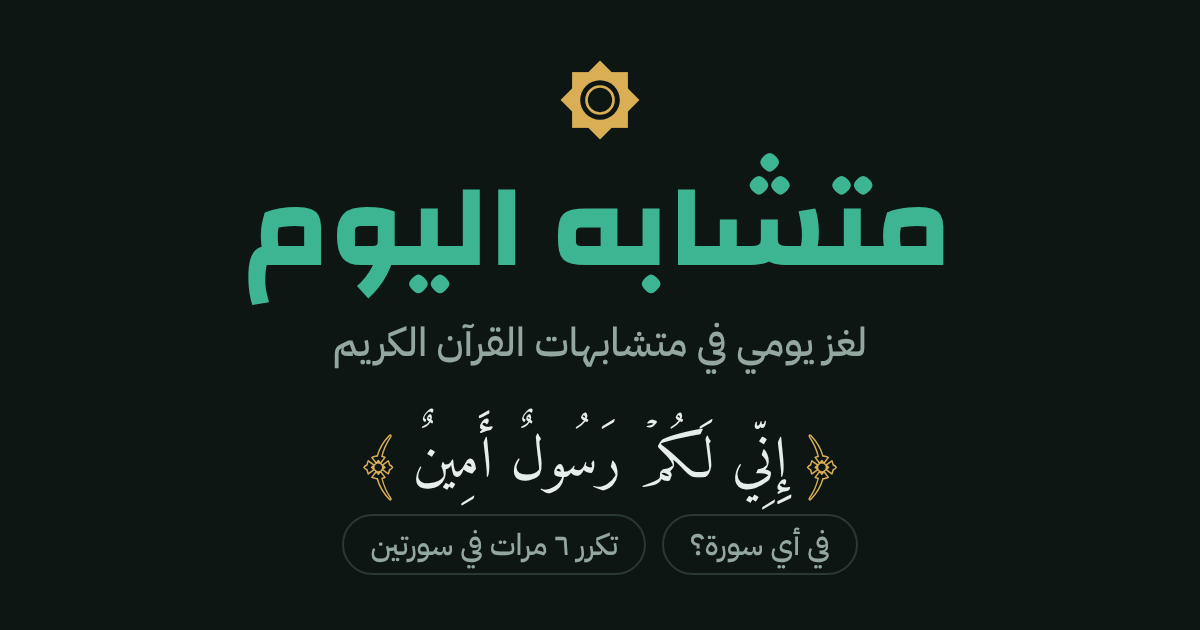
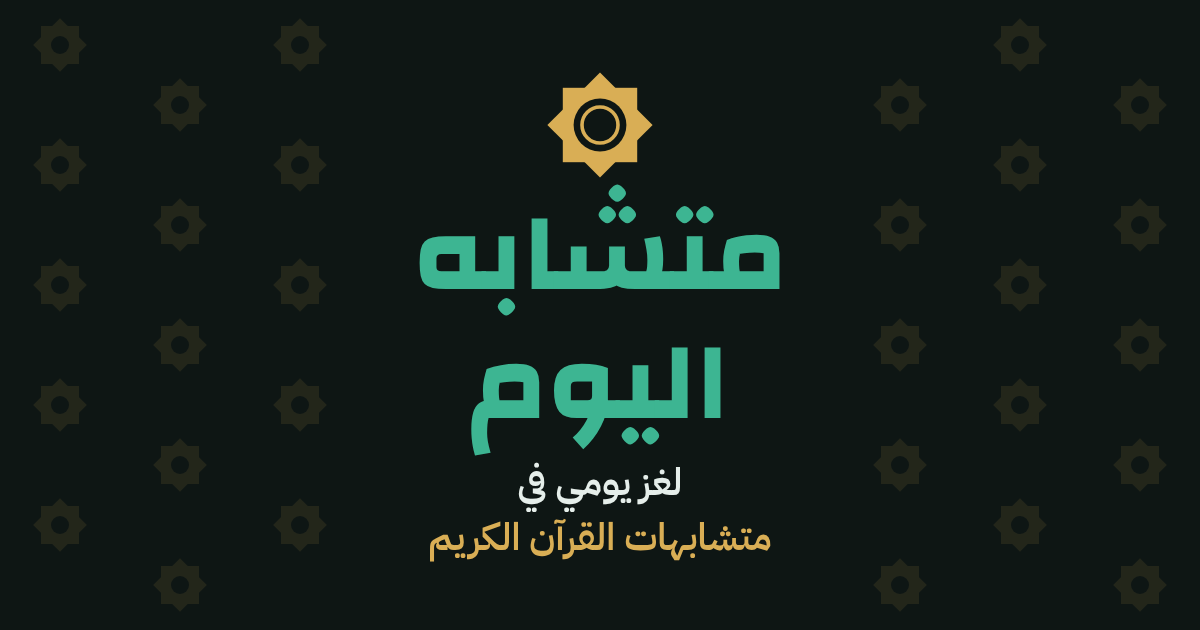
Add files via upload

Changed region(s): [[0.185, 0.0905, 0.8017, 0.9349], [0.6167, 0.2413, 0.74, 0.3016]]

diff --git a/index.html b/index.html
@@ -8,12 +8,12 @@
 <meta property="og:url" content="https://quranic-verses.github.io/mutashabihat/">
 <meta property="og:title" content="متشابه اليوم">
 <meta property="og:description" content="لغز يومي في متشابهات القرآن الكريم: في أي سورة ورد هذا الموضع؟">
-<meta property="og:image" content="https://quranic-verses.github.io/mutashabihat/og-image.png">
+<meta property="og:image" content="https://quranic-verses.github.io/mutashabihat/og-image.png?v=2">
 <meta property="og:image:width" content="1200">
 <meta property="og:image:height" content="630">
 <meta property="og:locale" content="ar_AR">
 <meta name="twitter:card" content="summary_large_image">
-<meta name="twitter:image" content="https://quranic-verses.github.io/mutashabihat/og-image.png">
+<meta name="twitter:image" content="https://quranic-verses.github.io/mutashabihat/og-image.png?v=2">
 <link rel="manifest" href="manifest.webmanifest">
 <link rel="apple-touch-icon" href="apple-touch-icon.png">
 <meta name="apple-mobile-web-app-capable" content="yes">
@@ -62,6 +62,8 @@ h1{font-family:var(--f-display);font-weight:700;font-size:2.1rem;line-height:1.4
 .chip{border:1px solid var(--line);border-radius:999px;padding:3px 12px;font-size:.92rem;color:var(--muted)}
 .chip b{color:var(--ink);font-variant-numeric:tabular-nums}
 .slots{display:grid;grid-template-columns:repeat(auto-fill,minmax(130px,1fr));gap:8px}
+.slots .ayah{grid-column:1/-1}
+.ayah.found{border-color:var(--ok)}
 .slot{min-height:52px;border-radius:10px;background:var(--empty);border:1px dashed var(--line);display:flex;align-items:center;justify-content:center;gap:6px;font-weight:600;padding:6px}
 .slot.found{background:var(--ok-bg);border:1px solid var(--ok);color:var(--ok);animation:pop .35s ease}
 .slot.missed{background:transparent;border:1px solid var(--bad);color:var(--bad)}
@@ -124,6 +126,7 @@ a.mbtn{text-decoration:none}
 .arow .adate{color:var(--muted);font-weight:400;font-size:.85rem}
 .arow .ast{font-size:.82rem;font-weight:600;min-width:64px;text-align:left}
 .ast.ok{color:var(--ok)} .ast.bad{color:var(--bad)} .ast.new{color:var(--muted)} .ast.cur{color:var(--gold)}
+.btn-link{display:inline-flex;align-items:center;justify-content:center;font-weight:600;border-radius:10px;border:1px solid var(--accent);background:var(--accent);color:var(--accent-ink);padding:10px 16px;text-decoration:none}
 .row{display:flex;gap:8px;flex-wrap:wrap;justify-content:center}
 .stats{display:grid;grid-template-columns:repeat(4,1fr);gap:8px;text-align:center}
 .stats div{border:1px solid var(--line);border-radius:10px;padding:8px 4px;background:var(--surface)}
@@ -221,8 +224,6 @@ if ('serviceWorker' in navigator && location.protocol === 'https:' && location.h
     </div>
   </section>
 
-  <div class="slots" id="slots" aria-live="polite"></div>
-
   <form id="guessForm" autocomplete="off">
     <input type="text" id="guess" placeholder="اكتب اسم السورة" aria-label="اسم السورة">
     <button type="submit" id="go">تخمين</button>
@@ -235,21 +236,19 @@ if ('serviceWorker' in navigator && location.protocol === 'https:' && location.h
   </div>
   <div class="msg" id="msg" role="status"></div>
 
+  <div class="slots" id="slots" aria-live="polite"></div>
+
+  <ul class="log" id="log"></ul>
+
   <section class="reveal" id="reveal" hidden>
     <h2 id="resultTitle"></h2>
     <div class="row">
-      <button type="button" id="share">نسخ النتيجة</button>
+      <a class="btn-link" id="shareNative" href="#" target="_blank" rel="noopener">مشاركة</a>
+      <button type="button" class="ghost" id="share">نسخ النتيجة</button>
     </div>
     <p class="next" id="next"></p>
     <div class="stats" id="stats"></div>
   </section>
-
-  <section class="reveal" id="ayatBox" hidden>
-    <h2 id="ayatTitle">الآيات</h2>
-    <div id="ayat" class="reveal"></div>
-  </section>
-
-  <ul class="log" id="log"></ul>
 
   <footer class="credits">
     التلاوة: الشيخ محمود خليل الحصري، عبر <a href="https://alquran.cloud" target="_blank" rel="noopener">Islamic Network</a> ·
@@ -401,19 +400,29 @@ function load(idx, practice, archive){
 
 function wrongCount(){ return S.guesses.filter(g => !g.ok).length; }
 
+function verseCard([s, a, b, e], missed, isNew){
+  const words = (DATA.v[s + ':' + a] || '').split(/[\s\u2009]+/).filter(Boolean);
+  const html = words.map((w, i) => (i === b ? '<mark>' : '') + esc(w) + (i === e - 1 ? '</mark>' : '')).join(' ');
+  const cls = 'ayah' + (missed ? ' missed' : ' found') + (isNew ? ' new' : '');
+  const key = s + ':' + a, on = playing === key;
+  const btn = `<button type="button" class="play${on ? ' on' : ''}" data-key="${key}" aria-label="${on ? 'إيقاف التلاوة' : 'استمع للآية بصوت الحصري'}">${on ? '⏸' : '▶'}</button>`;
+  return `<div class="${cls}"><div class="head"><div class="ref">سورة ${SURAH[s]} · الآية ${toAr(a)}${missed ? ' <span class="tag">لم تجدها</span>' : ''}${where(s, a)}</div>${btn}</div><p>${html}</p></div>`;
+}
 function render(){
-  // slots: one tile per occurrence, grouped by surah in mushaf order
-  const slots = [];
-  S.surahs.forEach(s => {
-    const f = S.found.includes(s);
-    for (let i = 0; i < S.per[s]; i++) {
-      if (f) slots.push(`<div class="slot found">${SURAH[s]}${S.per[s] > 1 ? ` <small>${places(S.per[s])}</small>` : ''}</div>`);
-      else if (S.done) slots.push(`<div class="slot missed">${SURAH[s]}${S.per[s] > 1 ? ` <small>${places(S.per[s])}</small>` : ''}</div>`);
-      else slots.push(`<div class="slot" aria-label="خانة فارغة"></div>`);
-      if (f || S.done) break;
-    }
-  });
-  $('slots').innerHTML = slots.join('');
+  // Found surahs show their full verses right in the answer area (in the order the player found them,
+  // so the empty boxes give nothing away); at the end every verse is shown in mushaf order.
+  const last = S.guesses.length ? S.guesses[S.guesses.length - 1] : null;
+  const newest = last && last.ok && !S.done ? last.s : null;
+  const out = [];
+  if (S.done) {
+    S.spans.forEach(sp => out.push(verseCard(sp, !S.found.includes(sp[0]), false)));
+  } else {
+    S.found.forEach(s => S.spans.filter(sp => sp[0] === s).forEach(sp => out.push(verseCard(sp, false, s === newest))));
+    S.surahs.filter(s => !S.found.includes(s)).forEach(s => {
+      for (let i = 0; i < S.per[s]; i++) out.push('<div class="slot" aria-label="خانة فارغة"></div>');
+    });
+  }
+  $('slots').innerHTML = out.join('');
   const w = wrongCount();
   $('lives').innerHTML = Array.from({length: MAX_WRONG}, (_, i) => `<i class="${i < w ? 'used' : ''}"></i>`).join('');
   $('log').innerHTML = S.guesses.slice().reverse().map(g => g.h
@@ -423,7 +432,6 @@ function render(){
   $('guess').disabled = $('go').disabled = S.done;
   $('reveal').hidden = !S.done;
   if (S.done) renderReveal();
-  renderAyat();
 }
 
 function hintFor(s){
@@ -531,23 +539,6 @@ function renderReveal(){
 }
 
 // Verses: shown one surah at a time as the player finds it; all of them once the game ends.
-function renderAyat(){
-  const show = S.spans.filter(([s]) => S.done || S.found.includes(s));
-  $('ayatBox').hidden = show.length === 0;
-  if (!show.length) { $('ayat').innerHTML = ''; return; }
-  const last = S.guesses.length ? S.guesses[S.guesses.length - 1] : null;
-  const newest = last && last.ok && !S.done ? last.s : null;
-  $('ayatTitle').textContent = S.done ? 'كل المواضع' : 'المواضع التي وجدتها';
-  $('ayat').innerHTML = show.map(([s, a, b, e]) => {
-    const words = (DATA.v[s + ':' + a] || '').split(/[\s\u2009]+/).filter(Boolean);
-    const html = words.map((w, i) => (i === b ? '<mark>' : '') + esc(w) + (i === e - 1 ? '</mark>' : '')).join(' ');
-    const missed = !S.found.includes(s);
-    const cls = 'ayah' + (missed ? ' missed' : '') + (s === newest ? ' new' : '');
-    const key = s + ':' + a, on = playing === key;
-    const btn = `<button type="button" class="play${on ? ' on' : ''}" data-key="${key}" aria-label="${on ? 'إيقاف التلاوة' : 'استمع للآية بصوت الحصري'}">${on ? '⏸' : '▶'}</button>`;
-    return `<div class="${cls}"><div class="head"><div class="ref">سورة ${SURAH[s]} · الآية ${toAr(a)}${missed ? ' <span class="tag">لم تجدها</span>' : ''}${where(s, a)}</div>${btn}</div><p>${html}</p></div>`;
-  }).join('');
-}
 
 function tick(){
   const el = $('next'); if (!el || !S || !S.done) return;
@@ -559,7 +550,7 @@ function tick(){
 }
 setInterval(tick, 1000);
 
-$('ayat').addEventListener('click', e => { const b = e.target.closest('.play'); if (b) togglePlay(b.dataset.key); });
+$('slots').addEventListener('click', e => { const b = e.target.closest('.play'); if (b) togglePlay(b.dataset.key); });
 $('hintBtn').addEventListener('click', useHint);
 $('guessForm').addEventListener('submit', e => { e.preventDefault(); guess($('guess').value); });
 // ---------- Practice puzzles filtered by surah or juz ----------
@@ -630,10 +621,12 @@ function setNav(practice){
   if (!practice && location.hash === '#train') { try { history.replaceState(null, '', location.pathname + location.search); } catch (e) {} }
   $('modeDaily').classList.toggle('on', !practice); $('modeDaily').setAttribute('aria-pressed', !practice);
   $('modeTrain').classList.toggle('on', practice); $('modeTrain').setAttribute('aria-pressed', practice);
-  const base = location.hostname.endsWith('github.io') ? '' : SITE_URL;
+  // Relative links, so the two games link to each other wherever they are hosted (live site or preview).
+  // On GitHub the home page is "./" (the same address players open, so no stale saved copy).
+  const home = location.hostname.endsWith('github.io') ? './' : 'index.html';
   const tag = practice ? '#train' : '';
-  $('gameSurah').href = (base || './') + tag;   // same address as the home page, so no stale copy
-  $('gameFarq').href = base + 'farq.html' + tag;
+  $('gameSurah').href = home + tag;
+  $('gameFarq').href = 'farq.html' + tag;
   $('gameSurah').classList.toggle('on', GAME === 'surah'); $('gameFarq').classList.toggle('on', GAME === 'farq');
 }
 ['gameSurah', 'gameFarq'].forEach(id => $(id).addEventListener('click', e => {
@@ -678,20 +671,37 @@ function saveSummary(n, total, grid){
 }
 function dailyShareText(){
   const k = cairoDateKey(), a = store.get('sum-surah-' + k, null), b = store.get('sum-farq-' + k, null);
-  const lines = ['متشابه اليوم · ' + new Date().toLocaleDateString('ar-EG', {day:'numeric', month:'long', year:'numeric', timeZone:'Africa/Cairo'})];
-  if (a) lines.push(`في أي سورة؟ ${toAr(a.num)}: ${toAr(a.n)}/${toAr(a.total)} ${a.grid}`);
-  if (b) lines.push(`فرّق بينهما ${toAr(b.num)}: ${toAr(b.n)}/${toAr(b.total)} ${b.grid}`);
+  const lines = ['متشابه اليوم — ' + new Date().toLocaleDateString('ar-EG', {day:'numeric', month:'long', year:'numeric', timeZone:'Africa/Cairo'})];
+  // words instead of "٢: ٠/٢" and "·", which WhatsApp shows jumbled or as an Arabic zero
+  if (a) lines.push('', `في أي سورة؟ — اللغز ${toAr(a.num)}`, `${toAr(a.n)} من ${toAr(a.total)} ${a.grid}`);
+  if (b) lines.push('', `فرّق بينهما — اللغز ${toAr(b.num)}`, `${toAr(b.n)} من ${toAr(b.total)} ${b.grid}`);
+  lines.push('');
   lines.push(SITE_URL);
   return lines.join('\n');
 }
 
-$('share').addEventListener('click', () => {
+function resultText(){
   const grid = S.guesses.map(g => g.h ? '💡' : g.ok ? '🟩' : '🟥').join('');
-  const head = S.practice ? 'في أي سورة؟ (تدريب)' : 'في أي سورة؟ ' + toAr(S.idx + 1) + ' (من الأرشيف)';
-  const text = (S.practice || S.archive) ? `${head} · متشابه اليوم\n${toAr(S.found.length)}/${toAr(S.surahs.length)} ${grid}\n${SITE_URL}` : dailyShareText();
+  const head = S.practice ? 'في أي سورة؟ — تدريب' : 'في أي سورة؟ — اللغز ' + toAr(S.idx + 1) + ' (من الأرشيف)';
+  const text = (S.practice || S.archive) ? `متشابه اليوم\n${head}\n${toAr(S.found.length)} من ${toAr(S.surahs.length)} ${grid}\n\n${SITE_URL}` : dailyShareText();
+  return text;
+}
+$('share').addEventListener('click', () => {
+  const text = resultText();
   const done = () => { $('msg').textContent = 'تم نسخ النتيجة.'; $('msg').className = 'msg ok'; };
   const fallback = () => { $('msg').textContent = text; $('msg').className = 'msg'; };
   if (navigator.clipboard && navigator.clipboard.writeText) navigator.clipboard.writeText(text).then(done, fallback); else fallback();
+});
+
+// Share: the phone's own share sheet (WhatsApp, Telegram…) where available, otherwise WhatsApp directly.
+$('shareNative').addEventListener('click', e => {
+  const text = resultText();
+  if (navigator.share) {
+    e.preventDefault();
+    navigator.share({ text }).catch(() => {});
+  } else {
+    $('shareNative').href = 'https://wa.me/?text=' + encodeURIComponent(text);   // opens WhatsApp in a new tab
+  }
 });
 
 function showHelp(){ $('help').hidden = false; $('helpGo').focus(); }

diff --git a/farq.html b/farq.html
@@ -8,12 +8,12 @@
 <meta property="og:url" content="https://quranic-verses.github.io/mutashabihat/farq.html">
 <meta property="og:title" content="فرّق بينهما · متشابه اليوم">
 <meta property="og:description" content="موضعان متشابهان من القرآن، فاعرف سورة كل منهما. لغز جديد كل يوم.">
-<meta property="og:image" content="https://quranic-verses.github.io/mutashabihat/og-image.png">
+<meta property="og:image" content="https://quranic-verses.github.io/mutashabihat/og-image.png?v=2">
 <meta property="og:image:width" content="1200">
 <meta property="og:image:height" content="630">
 <meta property="og:locale" content="ar_AR">
 <meta name="twitter:card" content="summary_large_image">
-<meta name="twitter:image" content="https://quranic-verses.github.io/mutashabihat/og-image.png">
+<meta name="twitter:image" content="https://quranic-verses.github.io/mutashabihat/og-image.png?v=2">
 <link rel="manifest" href="manifest.webmanifest">
 <link rel="apple-touch-icon" href="apple-touch-icon.png">
 <meta name="apple-mobile-web-app-capable" content="yes">
@@ -62,6 +62,8 @@ h1{font-family:var(--f-display);font-weight:700;font-size:2.1rem;line-height:1.4
 .chip{border:1px solid var(--line);border-radius:999px;padding:3px 12px;font-size:.92rem;color:var(--muted)}
 .chip b{color:var(--ink);font-variant-numeric:tabular-nums}
 .slots{display:grid;grid-template-columns:repeat(auto-fill,minmax(130px,1fr));gap:8px}
+.slots .ayah{grid-column:1/-1}
+.ayah.found{border-color:var(--ok)}
 .slot{min-height:52px;border-radius:10px;background:var(--empty);border:1px dashed var(--line);display:flex;align-items:center;justify-content:center;gap:6px;font-weight:600;padding:6px}
 .slot.found{background:var(--ok-bg);border:1px solid var(--ok);color:var(--ok);animation:pop .35s ease}
 .slot.missed{background:transparent;border:1px solid var(--bad);color:var(--bad)}
@@ -124,6 +126,7 @@ a.mbtn{text-decoration:none}
 .arow .adate{color:var(--muted);font-weight:400;font-size:.85rem}
 .arow .ast{font-size:.82rem;font-weight:600;min-width:64px;text-align:left}
 .ast.ok{color:var(--ok)} .ast.bad{color:var(--bad)} .ast.new{color:var(--muted)} .ast.cur{color:var(--gold)}
+.btn-link{display:inline-flex;align-items:center;justify-content:center;font-weight:600;border-radius:10px;border:1px solid var(--accent);background:var(--accent);color:var(--accent-ink);padding:10px 16px;text-decoration:none}
 .row{display:flex;gap:8px;flex-wrap:wrap;justify-content:center}
 .stats{display:grid;grid-template-columns:repeat(4,1fr);gap:8px;text-align:center}
 .stats div{border:1px solid var(--line);border-radius:10px;padding:8px 4px;background:var(--surface)}
@@ -244,10 +247,13 @@ if ('serviceWorker' in navigator && location.protocol === 'https:' && location.h
   </div>
   <div class="msg" id="msg" role="status"></div>
 
+  <ul class="log" id="log"></ul>
+
   <section class="reveal" id="reveal" hidden>
     <h2 id="resultTitle"></h2>
     <div class="row">
-      <button type="button" id="share">نسخ النتيجة</button>
+      <a class="btn-link" id="shareNative" href="#" target="_blank" rel="noopener">مشاركة</a>
+      <button type="button" class="ghost" id="share">نسخ النتيجة</button>
     </div>
     <p class="next" id="next"></p>
     <div class="stats" id="stats"></div>
@@ -257,8 +263,6 @@ if ('serviceWorker' in navigator && location.protocol === 'https:' && location.h
     <h2 id="ayatTitle">الآيات</h2>
     <div id="ayat" class="reveal"></div>
   </section>
-
-  <ul class="log" id="log"></ul>
 
   <footer class="credits">
     التلاوة: الشيخ محمود خليل الحصري، عبر <a href="https://alquran.cloud" target="_blank" rel="noopener">Islamic Network</a> ·
@@ -612,10 +616,12 @@ function setNav(practice){
   if (!practice && location.hash === '#train') { try { history.replaceState(null, '', location.pathname + location.search); } catch (e) {} }
   $('modeDaily').classList.toggle('on', !practice); $('modeDaily').setAttribute('aria-pressed', !practice);
   $('modeTrain').classList.toggle('on', practice); $('modeTrain').setAttribute('aria-pressed', practice);
-  const base = location.hostname.endsWith('github.io') ? '' : SITE_URL;
+  // Relative links, so the two games link to each other wherever they are hosted (live site or preview).
+  // On GitHub the home page is "./" (the same address players open, so no stale saved copy).
+  const home = location.hostname.endsWith('github.io') ? './' : 'index.html';
   const tag = practice ? '#train' : '';
-  $('gameSurah').href = (base || './') + tag;   // same address as the home page, so no stale copy
-  $('gameFarq').href = base + 'farq.html' + tag;
+  $('gameSurah').href = home + tag;
+  $('gameFarq').href = 'farq.html' + tag;
   $('gameSurah').classList.toggle('on', GAME === 'surah'); $('gameFarq').classList.toggle('on', GAME === 'farq');
 }
 ['gameSurah', 'gameFarq'].forEach(id => $(id).addEventListener('click', e => {
@@ -668,21 +674,38 @@ function saveSummary(n, total, grid){
 }
 function dailyShareText(){
   const k = cairoDateKey(), a = store.get('sum-surah-' + k, null), b = store.get('sum-farq-' + k, null);
-  const lines = ['متشابه اليوم · ' + new Date().toLocaleDateString('ar-EG', {day:'numeric', month:'long', year:'numeric', timeZone:'Africa/Cairo'})];
-  if (a) lines.push(`في أي سورة؟ ${toAr(a.num)}: ${toAr(a.n)}/${toAr(a.total)} ${a.grid}`);
-  if (b) lines.push(`فرّق بينهما ${toAr(b.num)}: ${toAr(b.n)}/${toAr(b.total)} ${b.grid}`);
+  const lines = ['متشابه اليوم — ' + new Date().toLocaleDateString('ar-EG', {day:'numeric', month:'long', year:'numeric', timeZone:'Africa/Cairo'})];
+  // words instead of "٢: ٠/٢" and "·", which WhatsApp shows jumbled or as an Arabic zero
+  if (a) lines.push('', `في أي سورة؟ — اللغز ${toAr(a.num)}`, `${toAr(a.n)} من ${toAr(a.total)} ${a.grid}`);
+  if (b) lines.push('', `فرّق بينهما — اللغز ${toAr(b.num)}`, `${toAr(b.n)} من ${toAr(b.total)} ${b.grid}`);
+  lines.push('');
   lines.push(SITE_URL);
   return lines.join('\n');
 }
 
-$('share').addEventListener('click', () => {
+function resultText(){
   const grid = S.guesses.map(g => g.h ? '💡' : g.ok ? '🟩' : '🟥').join('');
   const n = S.solved.filter(Boolean).length;
-  const head = S.practice ? 'فرّق بينهما (تدريب)' : `فرّق بينهما ${toAr(S.idx + 1)} (من الأرشيف)`;
-  const text = (S.practice || S.archive) ? `${head} · متشابه اليوم\n${toAr(n)}/٢ ${grid}\n${SITE_URL}farq.html` : dailyShareText();
+  const head = S.practice ? 'فرّق بينهما — تدريب' : `فرّق بينهما — اللغز ${toAr(S.idx + 1)} (من الأرشيف)`;
+  const text = (S.practice || S.archive) ? `متشابه اليوم\n${head}\n${toAr(n)} من ٢ ${grid}\n\n${SITE_URL}farq.html` : dailyShareText();
+  return text;
+}
+$('share').addEventListener('click', () => {
+  const text = resultText();
   const done = () => { $('msg').textContent = 'تم نسخ النتيجة.'; $('msg').className = 'msg ok'; };
   const fallback = () => { $('msg').textContent = text; $('msg').className = 'msg'; };
   if (navigator.clipboard && navigator.clipboard.writeText) navigator.clipboard.writeText(text).then(done, fallback); else fallback();
+});
+
+// Share: the phone's own share sheet (WhatsApp, Telegram…) where available, otherwise WhatsApp directly.
+$('shareNative').addEventListener('click', e => {
+  const text = resultText();
+  if (navigator.share) {
+    e.preventDefault();
+    navigator.share({ text }).catch(() => {});
+  } else {
+    $('shareNative').href = 'https://wa.me/?text=' + encodeURIComponent(text);   // opens WhatsApp in a new tab
+  }
 });
 
 function showHelp(){ $('help').hidden = false; $('helpGo').focus(); }
